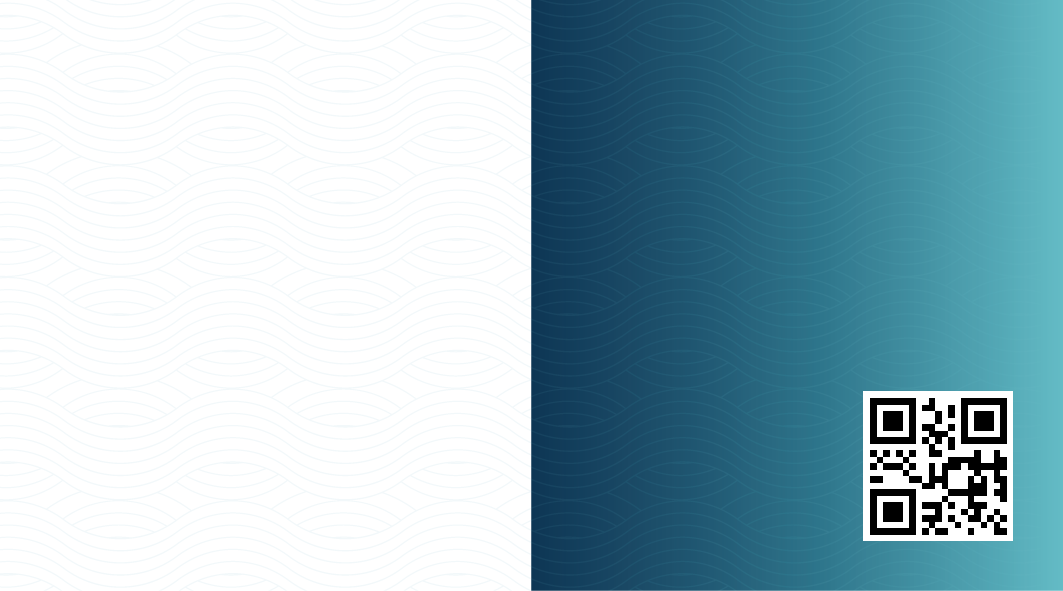
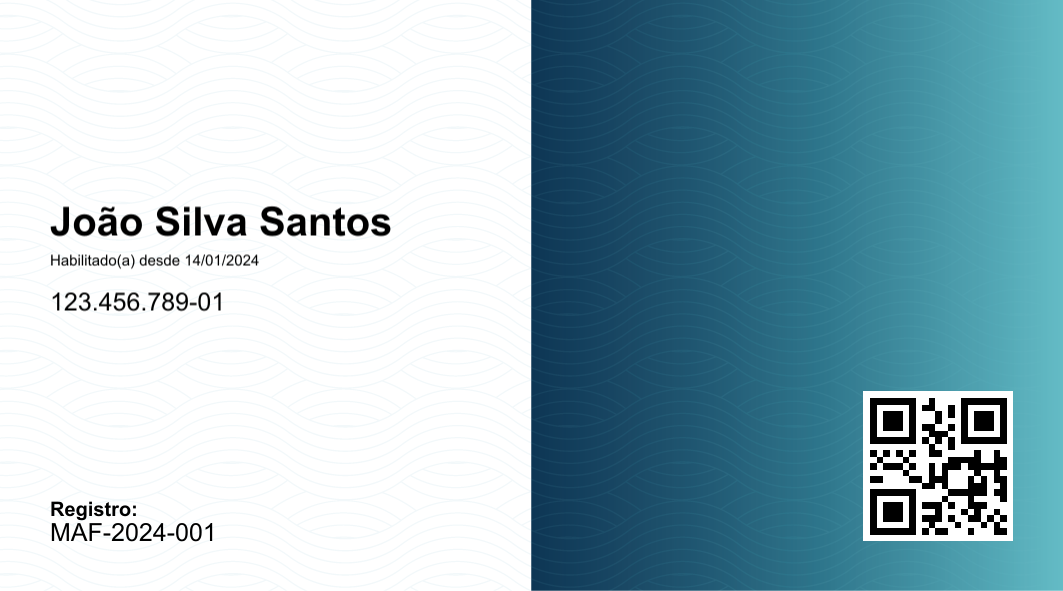
Fix: Restore card data rendering with hybrid Canvas+Sharp approach
- Revert to hybrid approach: Canvas for graphics, Sharp SVG for text rendering
- Use Arial font family for better compatibility
- Add fallback to direct Canvas text rendering if SVG fails
- Maintain Fontconfig error elimination in Vercel
- Restore all card data: name, CPF, date, registration number
- Test successful in both local and Vercel environments

diff --git a/lib/pdf-generator.ts b/lib/pdf-generator.ts
@@ -28,76 +28,87 @@ export async function generateCardPNG(data: {
         // Verificar se estamos no Vercel (ambiente de produção)
         const isVercel = process.env.VERCEL === '1' || process.env.VERCEL_ENV !== undefined
 
-        console.log('ℹ Ambiente Vercel detectado - usando abordagem sem Canvas' + (isVercel ? ' (Vercel)' : ' (Local)'))
+        console.log('ℹ Ambiente detectado - usando abordagem híbrida' + (isVercel ? ' (Vercel)' : ' (Local)'))
 
-        // Abordagem sem Canvas: usar apenas Sharp para composição
+        // Abordagem híbrida: Canvas para elementos gráficos, Sharp para composição
+        const { createCanvas, loadImage } = await import('canvas')
         const fs = await import('fs')
         const path = await import('path')
 
-        // Carregar imagens base
-        const backgroundPath = path.join(process.cwd(), 'public', 'padrao_fundo_carteira.png')
-        let cardImage = sharp(backgroundPath)
+        // Dimensões do cartão: 1063 × 591 pixels
+        const width = 1063
+        const height = 591
 
-        // Preparar textos como imagens
+        // Criar canvas para elementos gráficos (fundo, foto, QR)
+        const canvas = createCanvas(width, height)
+        const ctx = canvas.getContext('2d')
+
+        // Carregar imagem de fundo
+        const backgroundPath = path.join(process.cwd(), 'public', 'padrao_fundo_carteira.png')
+        const backgroundImage = await loadImage(backgroundPath)
+
+        // Desenhar imagem de fundo
+        ctx.drawImage(backgroundImage, 0, 0, width, height)
+
+        // Função para renderizar texto usando Sharp (evita problemas de Fontconfig)
+        async function drawTextOnCanvas(text: string, x: number, y: number, options: {
+            fontSize: number;
+            fontWeight?: string;
+            color?: string;
+        }) {
+            const fontWeight = options.fontWeight === 'bold' ? 'font-weight="bold"' : ''
+            const color = options.color || 'black'
+
+            // Criar SVG com o texto usando fonte básica
+            const svgText = `
+                <svg width="${text.length * options.fontSize * 0.6}" height="${options.fontSize + 10}" xmlns="http://www.w3.org/2000/svg">
+                    <text x="0" y="${options.fontSize}"
+                          font-family="Arial, sans-serif"
+                          font-size="${options.fontSize}"
+                          ${fontWeight}
+                          fill="${color}">${text}</text>
+                </svg>
+            `
+
+            try {
+                // Converter SVG para PNG usando Sharp
+                const textBuffer = await sharp(Buffer.from(svgText))
+                    .png()
+                    .toBuffer()
+
+                // Carregar como imagem e desenhar no Canvas
+                const textImage = await loadImage(textBuffer)
+                ctx.drawImage(textImage, x, y - options.fontSize)
+            } catch (error) {
+                console.warn('⚠ Erro ao renderizar texto, usando fallback:', text)
+                // Fallback: desenhar texto diretamente (pode causar Fontconfig warning)
+                ctx.font = `${options.fontWeight || 'normal'} ${options.fontSize}px Arial`
+                ctx.fillStyle = color
+                ctx.fillText(text, x, y)
+            }
+        }
+
+        // Adicionar textos usando Sharp (evita problemas de Fontconfig)
         const displayName = data.name && data.name.trim() ? data.name : 'Nome não informado'
         const formattedDate = data.certificationDate
             ? new Date(data.certificationDate).toLocaleDateString('pt-BR')
             : 'Data não informada'
         const formattedCPF = data.cpf && data.cpf.trim() ? formatCPF(data.cpf) : 'CPF não informado'
 
-        // Calcular posições
-        const nameToDateSpacing = 30
-        const dateToCpfSpacing = 45
-        const centerY = 591 / 2
+        // Calcular posições com espaçamento personalizado
+        const nameToDateSpacing = 30  // Espaçamento nome → data
+        const dateToCpfSpacing = 45   // Espaçamento data → CPF
+        const centerY = height / 2
+
+        // Centralizar o bloco de texto considerando espaçamentos diferentes
         const nameY = centerY - (nameToDateSpacing / 2) - dateToCpfSpacing
         const dateY = nameY + nameToDateSpacing
         const cpfY = dateY + dateToCpfSpacing
 
-        // Criar composições de texto
-        const textCompositions = []
-
-        // Nome
-        const nameSvg = `
-            <svg width="800" height="50">
-                <text x="0" y="35" font-family="Helvetica" font-size="40" font-weight="bold" fill="black" dominant-baseline="alphabetic">${displayName}</text>
-            </svg>`
-        const nameBuffer = await sharp(Buffer.from(nameSvg)).png().toBuffer()
-        textCompositions.push({ input: nameBuffer, left: 50, top: Math.round(nameY) })
-
-        // Data
-        const dateSvg = `
-            <svg width="800" height="25">
-                <text x="0" y="15" font-family="Helvetica" font-size="15" fill="black" dominant-baseline="alphabetic">Habilitado(a) desde ${formattedDate}</text>
-            </svg>`
-        const dateBuffer = await sharp(Buffer.from(dateSvg)).png().toBuffer()
-        textCompositions.push({ input: dateBuffer, left: 50, top: Math.round(dateY) })
-
-        // CPF
-        const cpfSvg = `
-            <svg width="800" height="35">
-                <text x="0" y="25" font-family="Helvetica" font-size="25" fill="black" dominant-baseline="alphabetic">${formattedCPF}</text>
-            </svg>`
-        const cpfBuffer = await sharp(Buffer.from(cpfSvg)).png().toBuffer()
-        textCompositions.push({ input: cpfBuffer, left: 50, top: Math.round(cpfY) })
-
-        // Registro
-        const registroSvg = `
-            <svg width="200" height="25">
-                <text x="0" y="20" font-family="Helvetica" font-size="20" font-weight="bold" fill="black" dominant-baseline="alphabetic">Registro:</text>
-            </svg>`
-        const registroBuffer = await sharp(Buffer.from(registroSvg)).png().toBuffer()
-        textCompositions.push({ input: registroBuffer, left: 50, top: 591 - 75 })
-
-        // Código
-        const codeSvg = `
-            <svg width="300" height="30">
-                <text x="0" y="25" font-family="Helvetica" font-size="25" fill="black" dominant-baseline="alphabetic">${data.cardNumber || 'MAF-TEST-001'}</text>
-            </svg>`
-        const codeBuffer = await sharp(Buffer.from(codeSvg)).png().toBuffer()
-        textCompositions.push({ input: codeBuffer, left: 50, top: 591 - 50 })
-
-        // Aplicar composições de texto
-        cardImage = cardImage.composite(textCompositions)
+        // Renderizar textos
+        await drawTextOnCanvas(displayName, 50, nameY, { fontSize: 40, fontWeight: 'bold', color: 'black' })
+        await drawTextOnCanvas(`Habilitado(a) desde ${formattedDate}`, 50, dateY, { fontSize: 15, color: 'black' })
+        await drawTextOnCanvas(formattedCPF, 50, cpfY, { fontSize: 25, color: 'black' })
 
         // Adicionar foto se existir
         if (data.photoPath) {
@@ -113,41 +124,37 @@ export async function generateCardPNG(data: {
                 if (photoData && !error) {
                     const photoBuffer = Buffer.from(await photoData.arrayBuffer())
 
-                    // Processar foto (cortar para quadrado e redimensionar)
-                    const processedPhoto = await sharp(photoBuffer)
-                        .resize(200, 200, { fit: 'cover', position: 'center' })
-                        .png()
-                        .toBuffer()
+                    // Carregar imagem da foto
+                    const photoImg = await loadImage(photoBuffer)
 
-                    // Posicionar foto (lado direito, centralizada verticalmente)
-                    cardImage = cardImage.composite([{
-                        input: processedPhoto,
-                        left: 1063 - 250,
-                        top: Math.round((591 - 200) / 2)
-                    }])
+                    const photoSize = 200
+                    // Centralizar foto no lado direito
+                    const photoX = width - photoSize - 50
+                    const photoY = (height - photoSize) / 2
+
+                    // Desenhar foto
+                    ctx.drawImage(photoImg, photoX, photoY, photoSize, photoSize)
                 }
             } catch (photoError) {
                 console.warn('⚠ Erro ao processar foto:', photoError)
             }
         }
 
-        // Gerar QR Code
+        // Adicionar QR Code
         try {
-            const qrCodeDataURL = await QRCode.toDataURL(data.qrToken, {
+            const qrBuffer = await QRCode.toBuffer(data.qrToken, {
                 width: 150,
                 margin: 1,
-                color: { dark: '#000000', light: '#FFFFFF' }
+                errorCorrectionLevel: 'M',
+                type: 'png'
             })
 
-            // Converter data URL para buffer
-            const qrBuffer = Buffer.from(qrCodeDataURL.split(',')[1], 'base64')
+            // Carregar QR code como imagem
+            const qrImg = await loadImage(qrBuffer)
 
-            // Posicionar QR Code (canto inferior direito)
-            cardImage = cardImage.composite([{
-                input: qrBuffer,
-                left: 1063 - 200,
-                top: 591 - 200
-            }])
+            const qrX = width - 200
+            const qrY = height - 200
+            ctx.drawImage(qrImg, qrX, qrY, 150, 150)
         } catch (qrError) {
             console.warn('⚠ Erro ao gerar QR Code:', qrError)
         }
@@ -156,27 +163,25 @@ export async function generateCardPNG(data: {
         try {
             const logoPath = path.join(process.cwd(), 'public', 'logo-maf.png')
             if (fs.existsSync(logoPath)) {
-                const logoBuffer = await sharp(logoPath)
-                    .resize(100, 100, { fit: 'inside' })
-                    .png()
-                    .toBuffer()
+                const logoImg = await loadImage(logoPath)
 
-                // Posicionar logo (canto superior direito)
-                cardImage = cardImage.composite([{
-                    input: logoBuffer,
-                    left: 1063 - 120,
-                    top: 20
-                }])
+                // Definir tamanho da logo
+                const logoSize = 100
+                const logoX = width - logoSize - 20
+                const logoY = 20
+
+                ctx.drawImage(logoImg, logoX, logoY, logoSize, logoSize)
             }
         } catch (logoError) {
             console.warn('⚠ Erro ao adicionar logo:', logoError)
         }
 
-        // Converter para PNG
-        const finalBuffer = await cardImage.png().toBuffer()
+        // Adicionar textos do rodapé
+        await drawTextOnCanvas('Registro:', 50, height - 75, { fontSize: 20, fontWeight: 'bold', color: 'black' })
+        await drawTextOnCanvas(data.cardNumber || 'MAF-TEST-001', 50, height - 50, { fontSize: 25, color: 'black' })
 
-        console.log(`✅ Cartão gerado com sucesso! Tamanho: ${finalBuffer.length} bytes`)
-        return finalBuffer
+        // Retornar buffer do canvas
+        return canvas.toBuffer('image/png')
 
     } catch (error) {
         console.error('❌ Erro ao gerar cartão:', error)
